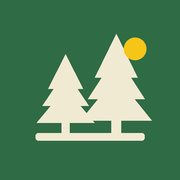
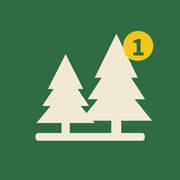
アイコンの太陽に数字を入れる（きんこう＝緑・1、大隅＝紺・9）
Claude-Session: https://claude.ai/code/session_01WLSP71pXUABJ5eVgvKFS9C

Changed region(s): [[0.6667, 0.1667, 0.8611, 0.3611]]

diff --git a/app/index.html b/app/index.html
@@ -401,7 +401,7 @@ body.trk-on .leaflet-top.leaflet-left{top:98px}
     </div>
     <details class="rp-step dnotes" id="dnotes" hidden><summary>地番データについてのお知らせ</summary><div id="dnotes-body"></div></details>
     <p class="rp-note disc" hidden></p>
-    <p class="rp-note">森林簿のCSVはここには含まれません。各端末で読み込んでください。<span class="rp-ver">版 2026-11-19b</span></p>
+    <p class="rp-note">森林簿のCSVはここには含まれません。各端末で読み込んでください。<span class="rp-ver">版 2026-11-19c</span></p>
   </div>
 </div>
 <form id="search" autocomplete="off">

diff --git a/app/sw.js b/app/sw.js
@@ -1,5 +1,5 @@
 // 森林ナビ（町ごとの版・かごしま森林ナビ 大隅で共通）：オフラインでも開けるようにするための仕組み
-const VER='v82';
+const VER='v83';
 // この仕組みが置かれたフォルダ（例：/my-first-repo/app/）。町ごとのフォルダで同じファイルを使う
 const BASE=new URL(self.registration.scope).pathname;
 const PFX=BASE.endsWith('/app/')?'forest':BASE.split('/').filter(Boolean).pop(); // 錦江町は今までどおり「forest」
